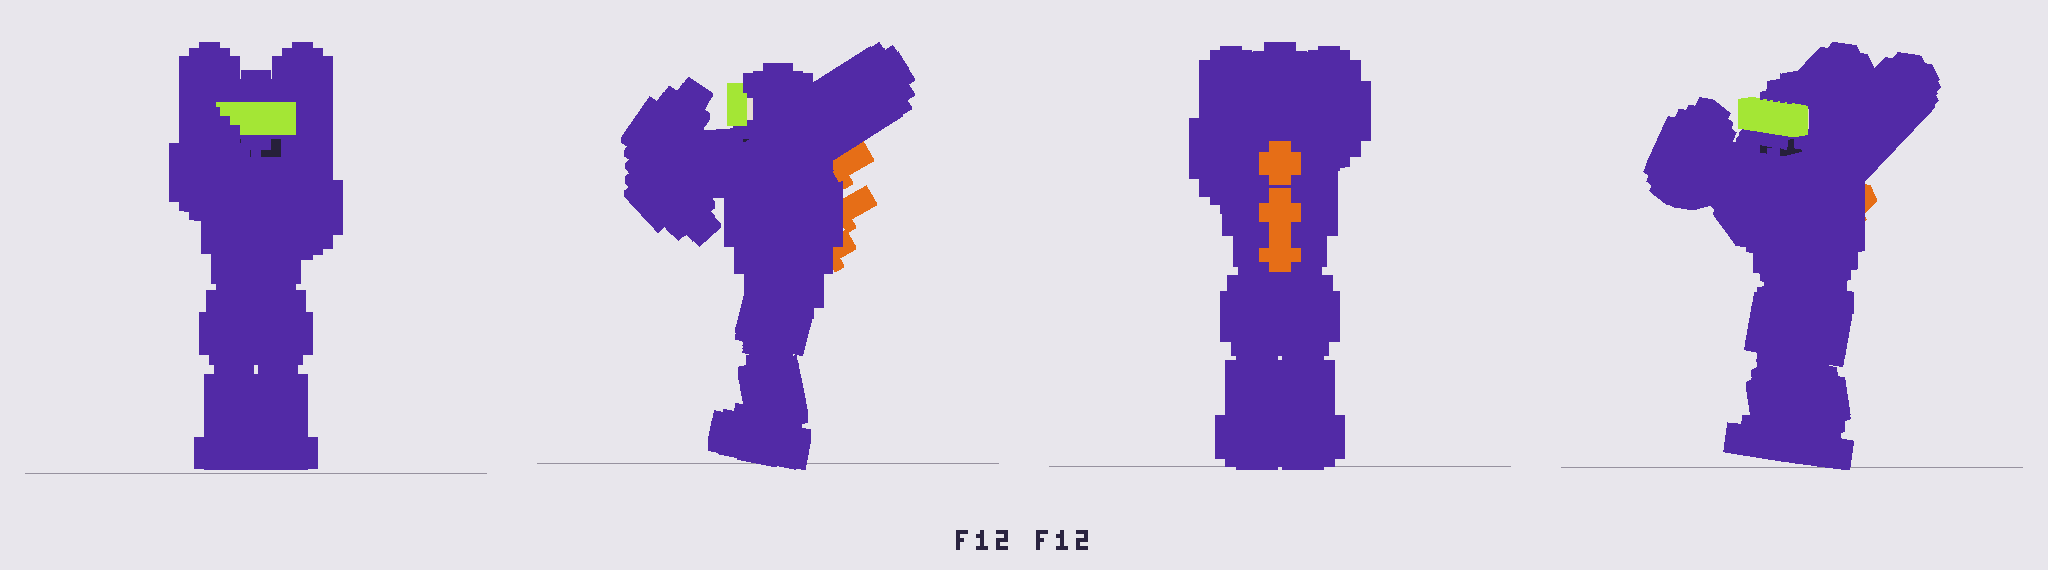
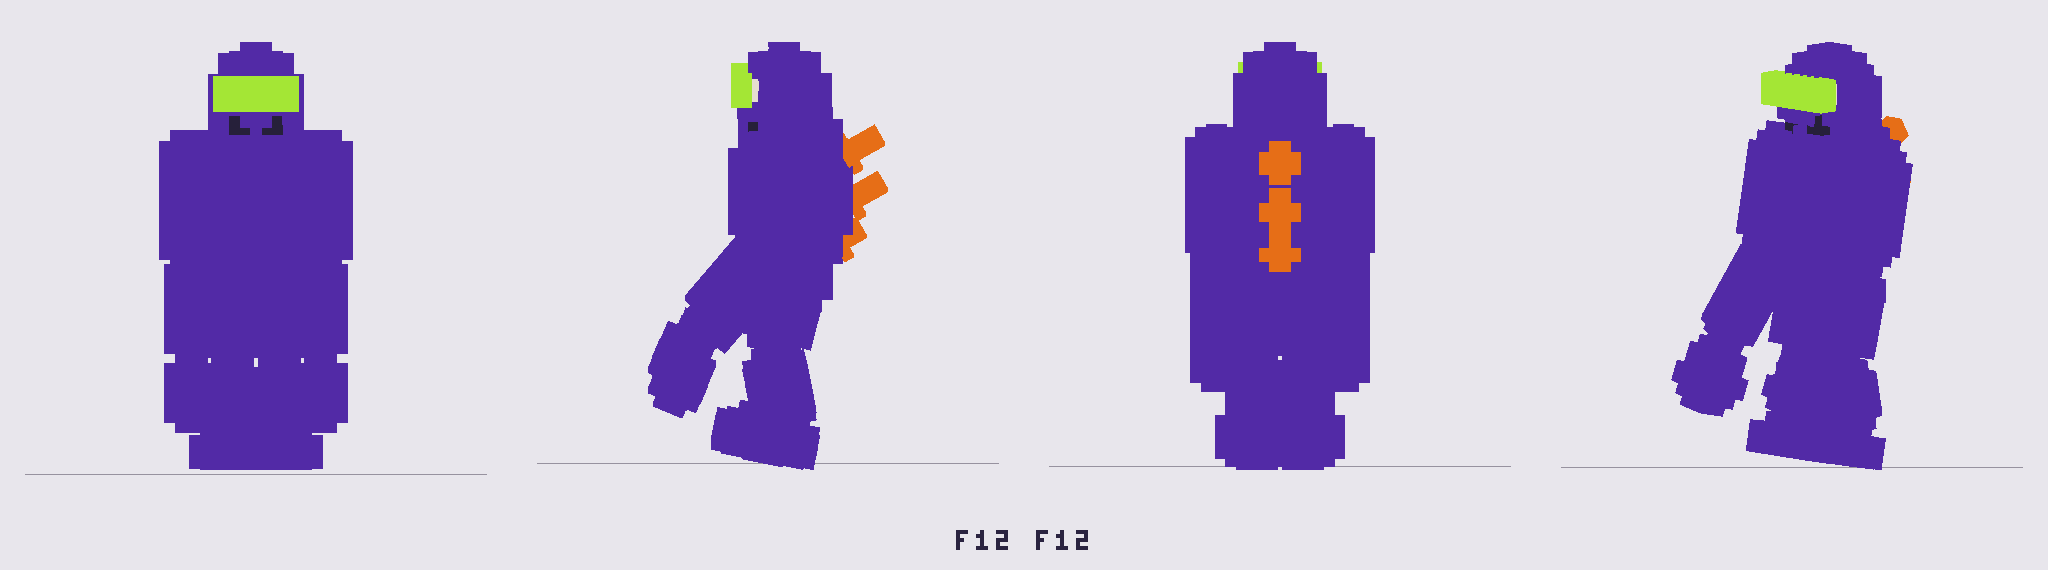
fix(GAME-10m): F12 arms hang from the shoulder, shorter, clear of the body
The arm and claw pivots sat at the far end, so the arms grew upward over
the head. Default pivots, shorter arms and claws, shoulders out to 1.1.
Pounce hitMetres comment matches the code (landing only).

diff --git a/src/foamers/pounce.ts b/src/foamers/pounce.ts
@@ -19,9 +19,8 @@ export interface PounceSpec {
   speed: number;
   /** The apex of the arc over the ground it leaves, metres. */
   arcMetres: number;
-  /** The hit radius at the landing (metres), read every frame of the
-   *  flight: the whole arc is a hit check, because it shifts its weight
-   *  into the swing. */
+  /** The hit radius at the landing (metres): the landing is the one
+   *  moment the pounce can hit. */
   hitMetres: number;
 }
 
